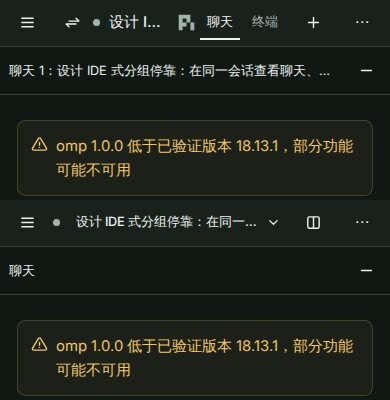
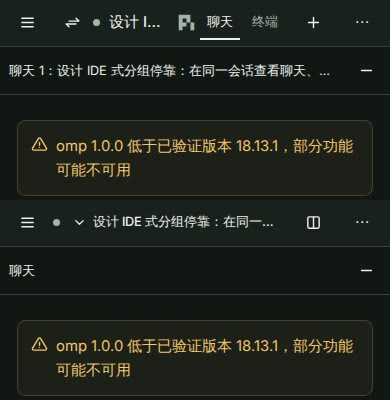
fix(web): 保持会话顶栏布局稳定
- 将标题展开图标固定在文本前，连接提示独立占位，避免加载会话和重连时顶栏跳动。
- Storybook 在手机尺寸验证菜单内的输入端，宽屏继续验证标签。
- 更新用户故事 US-H08 和桌面、平板、手机视觉证据。

Changed region(s): [[0.1846, 0.54, 0.7077, 0.57]]

diff --git a/web/src/components/terminal/TerminalHeader.svelte b/web/src/components/terminal/TerminalHeader.svelte
@@ -161,9 +161,8 @@
   </Button>
   <SessionSwitcherTrigger size="icon-sm" class="max-sm:hidden" />
   <!-- The title and the session's state read as one unit; the actions keep
-       their places while the title truncates. Phones put the dot first and
-       move a connection problem to a second line, so it never pushes the
-       title out. -->
+       their places while the title truncates. On phones the connection
+       label sits below the centered title without resizing its row. -->
   <div class="flex min-w-0 flex-1 items-center gap-1 sm:gap-2">
     {#if t.info}<span
         class={`status-dot shrink-0 status-${t.info.status} sm:order-3`}
@@ -178,10 +177,10 @@
       <span class="shrink-0 sm:hidden" aria-hidden="true"
         ><span class="status-dot invisible"></span></span
       >{/if}
-    <div class="flex min-w-0 flex-col sm:order-1">
+    <div class="relative flex min-w-0 flex-col sm:order-1">
       <SessionTitle {title} {session} agent={chatAgent?.title} />
       {#if !t.info || t.connection !== "connected"}<span
-          class="max-w-full truncate text-xs leading-none text-muted-foreground sm:hidden"
+          class="pointer-events-none absolute inset-x-0 top-1/2 mt-2 truncate text-xs leading-none text-muted-foreground sm:hidden"
           role="status">{connectionText}</span
         >{/if}
     </div>

diff --git a/web/test/storybook/acp-chat.spec.ts b/web/test/storybook/acp-chat.spec.ts
@@ -298,10 +298,24 @@ for (const [story, role, control] of stories) {
       await show(page, story, "light");
       await checkEachLayout(
         page,
-        async ({ name, textScale }) => {
-          const target = page.getByRole(role, { name: control });
+        async ({ name, textScale, viewport }) => {
+          const compactInput = role === "tab" && viewport.width < 640;
+          if (compactInput) {
+            await page
+              .getByRole("button", { name: /^(终端|会话)菜单$/ })
+              .click();
+          }
+          const target = compactInput
+            ? page
+                .getByRole("group", { name: "输入端", exact: true })
+                .getByRole("menuitemradio", { name: control })
+            : page.getByRole(role, { name: control });
           await target.scrollIntoViewIfNeeded();
           await expect.soft(target, name).toBeInViewport();
+          if (compactInput) {
+            await page.keyboard.press("Escape");
+            await expect(page.getByRole("menu")).toBeHidden();
+          }
           if (textScale > 1)
             // The terminal header does not fit 320px at 200% text even for an
             // ordinary session; this case checks the hybrid page's body.

diff --git a/web/src/components/terminal/SessionTitle.svelte b/web/src/components/terminal/SessionTitle.svelte
@@ -45,8 +45,8 @@
     class="min-w-0 max-w-full"
     {title}
   >
+    <IconChevronDown data-icon="inline-start" aria-hidden="true" />
     <span class="min-w-0 truncate">{title}</span>
-    <IconChevronDown data-icon="inline-end" aria-hidden="true" />
   </Button>
 {/snippet}
 

diff --git a/docs/user-stories/terminal.md b/docs/user-stories/terminal.md
@@ -293,7 +293,7 @@
   - 窄于 640px 时顶栏单行且不横向滚动，常驻侧栏、状态点和会话名、面板图标及「⋯」。会话名过长时省略，点击名称打开显示全文的底部抽屉。
   - 「打开面板」在桌面和手机都使用可取消的抽屉，按名称标识当前内容。手机一次显示一个面板，分屏命令在选择器内直接可用。
   - 手机从「⋯ → 输入端」切换聊天或终端，菜单标记当前输入端；查看面板不改变输入端。
-  - 状态点在标题之前；连接异常时点脉动（尊重减少动效设置），“重连中”等文字显示在标题下方小字，不挤掉标题；
+  - 状态点在标题之前；连接异常时点脉动（尊重减少动效设置），“重连中”等文字在标题下方出现，标题、状态点和操作按钮位置保持不变；
   - 草稿开关在触屏软键栏快捷指令旁，软键栏隐藏（代码视图或非触屏窄屏）时在终端菜单首组；
   - 终端菜单按“会话 / 终端 / 显示”分组，窄屏另含全屏、上传文件，名称与禁用条件不变；快捷键教程统一在设置页查阅，终端视图可见时回到最新输出由终端区域靠下居中的“回到最新”浮动按钮承担（单栏代码视图下先切回终端）；
   - 侧栏、打开面板及菜单使用触控尺寸。
